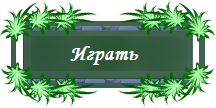
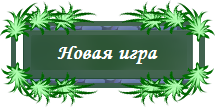
Закончил меню
1.Добавил список сцен в лаунчер.
2.Добавил сброс прогресса сцен при начале новой игры.
3.Сделан возврат в цену вызова меню.

diff --git a/src/core/Player.java b/src/core/Player.java
@@ -23,7 +23,7 @@ public class Player extends Entity{
 	public Item wearpon;
 	public Monster target = null;
 	public int hp = 100;
-
+	public int id = 0;
 	
 	public Player(float x, float y) throws SlickException {
 		super(x, y);
@@ -39,5 +39,6 @@ public class Player extends Entity{
 		}
 		g.drawImage(player, x, y);
 	}
+	
 	
 	}

diff --git a/src/scienes/Run.java b/src/scienes/Run.java
@@ -99,6 +99,12 @@ public class Run extends MyWorld {
 		if(octavian.y<800) showMessage = false;
 		if(monster!=null)System.out.println("monster.y: "+monster.y);
 	}
+
+	@Override
+	public void reset() {
+		// TODO Auto-generated method stub
+		
+	}
 	
 }
 

diff --git a/src/scienes/Motel.java b/src/scienes/Motel.java
@@ -9,4 +9,10 @@ public class Motel extends MyWorld {
 		// TODO Auto-generated constructor stub
 	}
 
+	@Override
+	public void reset() {
+		// TODO Auto-generated method stub
+		
+	}
+
 }

diff --git a/src/scienes/Flashback.java b/src/scienes/Flashback.java
@@ -211,4 +211,10 @@ public class Flashback extends MyWorld {
 		leitmotive.stop();
 	}
 
+	@Override
+	public void reset() {
+		// TODO Auto-generated method stub
+		
+	}
+
 }
